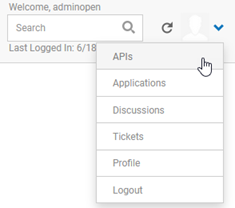
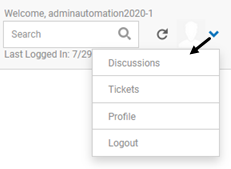
ATMO-33998 Bonita UI changes

diff --git a/cm/learnmore/basics_theme_bonita.htm b/cm/learnmore/basics_theme_bonita.htm
@@ -24,8 +24,10 @@ nav-title: Bonita theme
 	<li><a href="#bonita_navigation">Bonita theme: Navigation</a></li>
 	<li><a href="#bonita_search">Bonita theme: Search functionality</a></li>
 	<li><a href="#bonita_apis">Bonita theme: API functionality</a></li>
+	<li><a href="#bonita_apps">Bonita theme: app functionality</a></li>
+	<li><a href="#bonita_more">Bonita theme: More menu</a></li>
+	<li><a href="#bonita_avatar_menu">Bonita theme: Avatar drop-down menu</a></li>
 	<li><a href="#bonita_exclusions">Bonita theme: Exclusions</a></li>
-	<li><a href="#bonita_profile">Bonita theme: Profile features</a></li>
 </ol>
 <hr class="divide_hr" />
 
@@ -34,12 +36,26 @@ nav-title: Bonita theme
 <h2 id="bonita_navigation">Bonita theme: Navigation</h2>
 <p>In the Bonita theme, from the top menu, users can access:</p>
 <ul>
-	<li>Forum&#8212;Social information relating to the platform (see <a href="basics_forums.htm">Forums</a>)</li>
-	<li>Documentation&#8212;API documentation (see <a href="app_access_apis_documentation.htm">Accessing API Documentation</a>)</li>
-	<li>Help</li>
-	<li>Search bar (see <a href="#bonita_search">Bonita theme: Search functionality</a>)</li>
-	<li>Profile (see <a href="#bonita_profile">Bonita theme: Profile features</a>)</li>
+	<li>APIs&#8212;All functionality relating to APIs. See <a href="#bonita_apis">Bonita theme: API functionality</a>.</li>
+<li>Apps&#8212;All functionality relating to apps. See <a href="#bonita_apps">Bonita theme: app functionality</a>.</li>
+<li><strong>More</strong> menu:
+<ul>
+<li>Forum&#8212;Social information relating to the platform (see <a href="basics_forums.htm">Forums</a>)</li>
+<li>Help</li>
 </ul>
+</li>
+<li>Search bar. See <a href="#bonita_search">Bonita theme: Search functionality</a>.</li>
+<li><a href="#bonita_avatar_menu">Avatar drop-down menu</a>:
+<ul>
+<li>Discussions</li>
+<li>Tickets</li>
+<li>Profile</li>
+<li>Logout link</li>
+</ul>
+</li>
+</ul>
+<p>The Bonita header, when the user is logged in, is shown below, with all drop-down menus and options shown.</p>
+<p><img src="assets/bonita_header.png" alt="Bonita theme: Top menu bar with user logged in." /></p>
 
 
 
@@ -93,17 +109,8 @@ nav-title: Bonita theme
 
 
 
-<h2 id="bonita_profile">Bonita theme: Profile features</h2>
-<p>To view these options, click the <strong>Profile</strong> link at the top right:</p>
-<p><img src="assets/bonita_profile.png" alt="Bonita theme: Profile options" /></p>
-<p>From here you can access your resources, including APIs, apps, discussions, and tickets, and your profile (password, security questions, and settings).</p>
-<p>You can also log out from this menu.</p>
-<p><a href="#top">Back to top</a></p>
-
-
-
 <h2 id="bonita_apis">Bonita theme: API functionality</h2>
-<p>From the menu at the top right, choose APIs to view your APIs list:</p>
+<p>From the menu at the top, choose <strong>APIs</strong> &gt; <strong>My APIs</strong> to view your APIs list:</p>
 <p><img src="assets/bonita_view_apis.png" alt="Bonita theme: APIs list" /></p>
 <p>To view information about a specific API, click the link in the title, or click <strong>See More</strong>:</p>
 <p><img src="assets/bonita_view_api_details.png" alt="Bonita theme: API Details page" /></p>
@@ -116,6 +123,48 @@ nav-title: Bonita theme
 	<li><strong>Documentation</strong>&#8212;Generated or authored documentation for the API. See <a href="app_access_apis_documentation.htm">Accessing API Documentation</a>.</li>
 	<li><strong>Test Client</strong>&#8212;A streamlined version of the full Test Client testing tool available in Hermosa Theme. See <a href="api_admin_testing_tc.htm">API Testing with Test Client</a>.</li>
 </ul>
+<p><a href="#top">Back to top</a></p>
+
+
+
+<h2 id="bonita_apps">Bonita theme: app functionality</h2>
+<p>From the menu at the top, choose <strong>Apps</strong> &gt; <strong>My Apps</strong> to view your apps list.</p>
+<p>To view information about a specific app, click the link in the title, or click <strong>See More</strong>:</p>
+<p><img src="assets/bonita_view_app_details.png" alt="Bonita theme: App Details page" /></p>
+<p>For each app, users have access to:</p>
+<ul>
+<li><strong>Details</strong>&#8212;A summary of information about the app, as shown above.</li>
+<li><strong>Overview</strong>&#8212;An overview of the metrics for the app. See <a href="app_monitoring.htm#analytics_app_overview">How can I see an overview of my app's performance?</a></li>
+<li><strong>Performance</strong>&#8212;Performance charts for the app, with the option to export the information. See <a href="app_monitoring.htm#analytics_app_charts">What information can I see on the app Charts page?</a></li>
+<li><strong>Logs</strong>&#8212;app logs. See <a href="app_monitoring.htm#analytics_app_logs">What information can I see on the app Logs page?</a></li>
+<li><strong>License Monitor</strong>&#8212;Information about your app's API consumption for each license. See <a href="app_monitoring.htm#analytics_app_licenses">What information can I see on the app Licenses page?</a></li>
+<li><strong>Test Client</strong>&#8212;A streamlined version of the full Test Client testing tool available in Hermosa Theme. See <a href="app_testing_tc.htm">Trying Out APIs in Test Client</a>.</li>
+</ul>
+<p><a href="#top">Back to top</a></p>
+
+
+
+<h2 id="bonita_more">Bonita theme: More menu</h2>
+<p>From the <strong>More</strong> menu you have two options:</p>
+<ul>
+<li><strong>Forum</strong>. See <a href="basics_forums.htm">Forums</a>.</li>
+<li><strong>Help</strong></li>
+</ul>
+<p><a href="#top">Back to top</a></p>
+
+
+
+<h2 id="bonita_avatar_menu">Bonita theme: Avatar drop-down menu</h2>
+<p>To view these options, click the <strong>Profile</strong> link at the top right:</p>
+<p><img src="assets/bonita_avatar_menu.png" alt="Bonita theme: Avatar drop-down menu options" /></p>
+<p>From here you can access your resources, including:</p>
+<ul>
+<li>Discussions. See <a href="app_collaborate_post_ticket_management.htm">Post/Ticket Management</a>.</li>
+<li>Tickets. See <a href="app_collaborate_post_ticket_management.htm">Post/Ticket Management</a>.</li>
+<li>Your profile (password, security questions, and settings). See <a href="basics_account_management.htm">Account Management</a>.</li>
+
+</ul>
+<p>You can also log out from this menu.</p>
 <p><a href="#top">Back to top</a></p>
 
 
